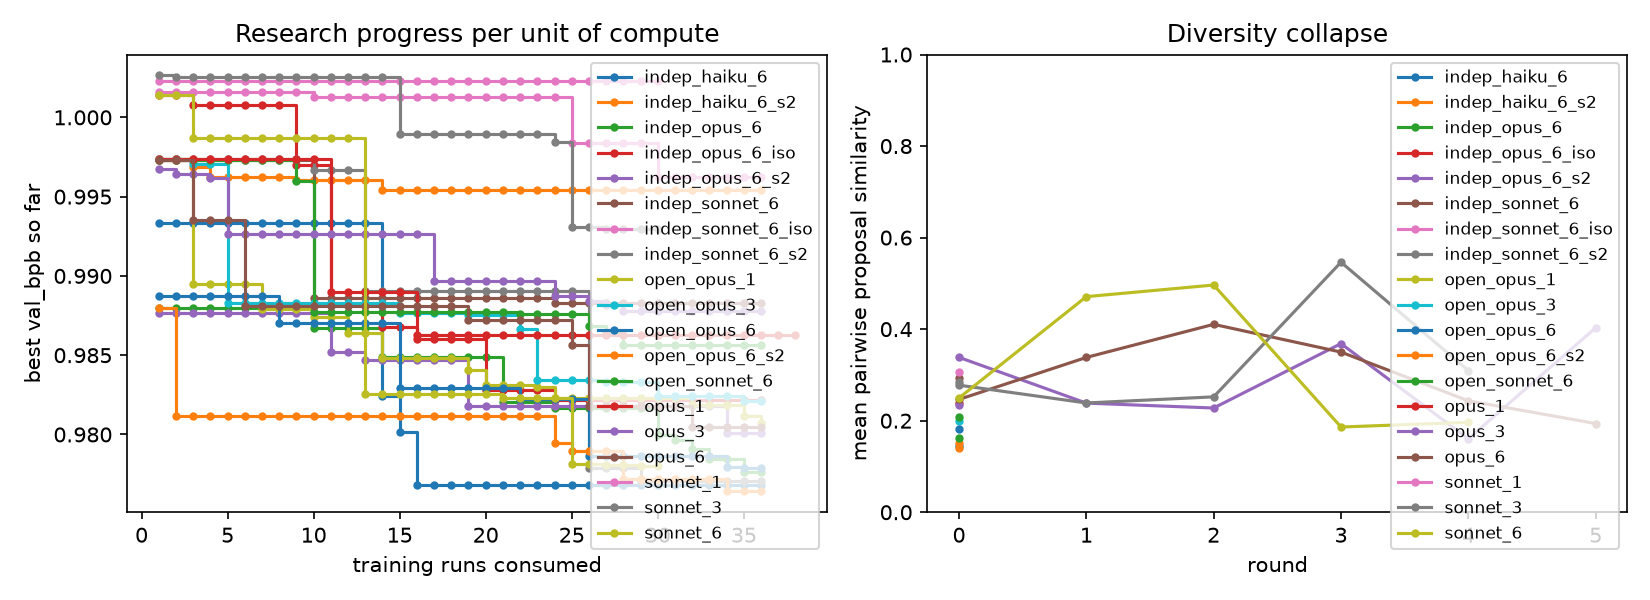
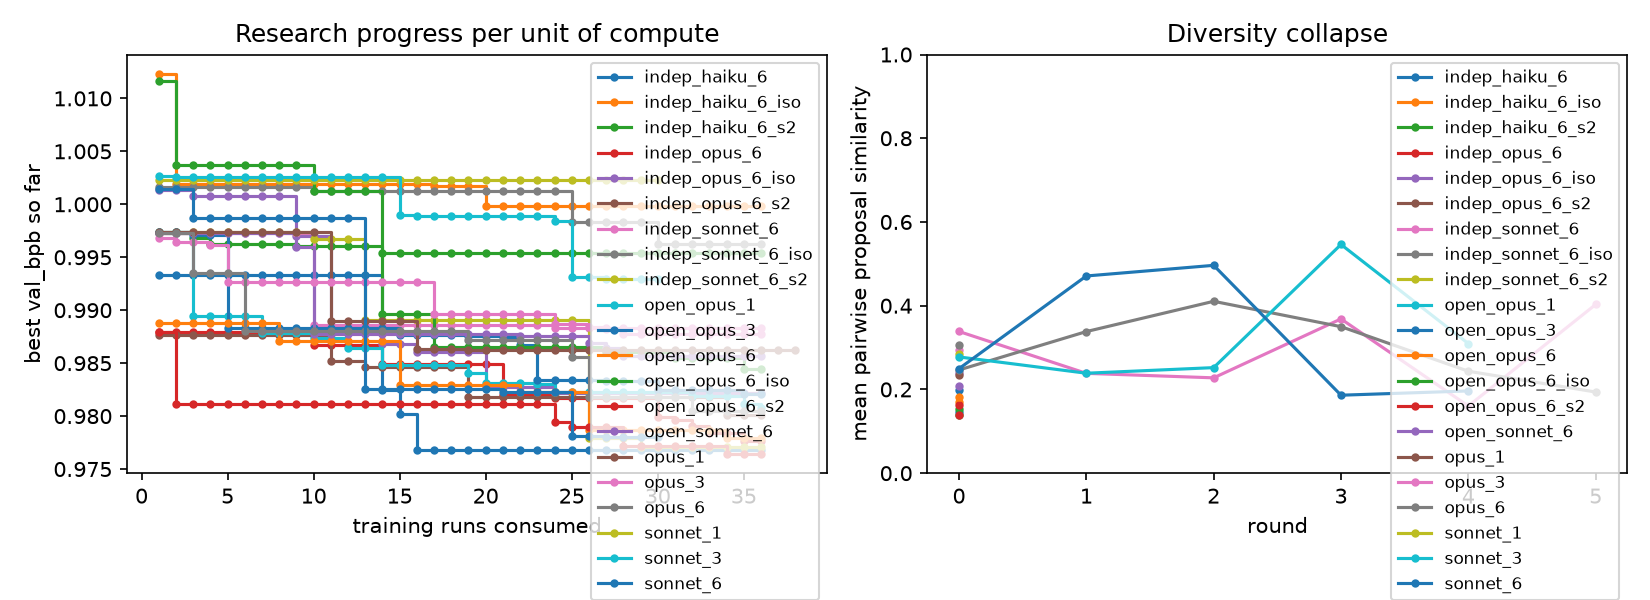
Isolated reruns complete: sharing vs true isolation within one box (no detectable effect), model ladder restored; winner diffs from archived train.py

diff --git a/analysis_out/summary.md b/analysis_out/summary.md
@@ -1,8 +1,9 @@
-# Results so far (2026-09-23 05:40)
+# Results so far (2026-09-23 11:39)
 
 **Read the correction at the top of case_studies.md first: the independent (indep_*) cells were not isolated (agents read the shared score table and peers' commits), so they do not measure the absence of communication.**
 
 - indep_haiku_6: OK — all invariants hold
+- indep_haiku_6_iso: OK — all invariants hold
 - indep_haiku_6_s2: OK — all invariants hold
 - indep_opus_6: OK — all invariants hold
 - indep_opus_6_iso: OK — all invariants hold
@@ -13,6 +14,7 @@
 - open_opus_1: OK — all invariants hold
 - open_opus_3: OK — all invariants hold
 - open_opus_6: OK — all invariants hold
+- open_opus_6_iso: OK — all invariants hold
 - open_opus_6_s2: OK — all invariants hold (1 noted deviation(s), see verify)
 - open_sonnet_6: OK — all invariants hold
 - opus_1: OK — all invariants hold (1 noted deviation(s), see verify)
@@ -26,6 +28,7 @@
 cell           agents  BoN   baseline      final      gain  runs  rounds  crash%  simil.  agent $
 -------------------------------------------------------------------------------------------------
 indep_haiku_6       6    1   0.997359   0.976806  0.020553    36       1    30.6   0.146    23.33
+indep_haiku_6_iso      6    1   1.012347   0.999826  0.012521    36       1    22.2   0.171     1.79
 indep_haiku_6_s2      6    1   0.997333   0.995414  0.001919    36       1     0.0   0.152    16.33
 indep_opus_6        6    1   0.997333   0.977649  0.019684    36       1     2.8   0.163    37.20
 indep_opus_6_iso      6    1   1.012347   0.982146  0.030201    36       1     0.0   0.240    17.11
@@ -36,6 +39,7 @@ indep_sonnet_6_s2      6    1   0.997359   0.977046  0.020313    36       1    2
 open_opus_1         1    1   0.997359   0.980742  0.016617    36       1     0.0   0.000     5.48
 open_opus_3         3    1   0.997359   0.982130  0.015229    36       1     2.8   0.199    18.99
 open_opus_6         6    1   0.997333   0.977896  0.019437    36       1     0.0   0.183    35.93
+open_opus_6_iso      6    1   1.012347   0.984417  0.027930    36       1     2.8   0.139    21.21
 open_opus_6_s2      6    1   0.997359   0.976408  0.020951    36       1     0.0   0.139    66.10
 open_sonnet_6       6    1   0.997333   0.985651  0.011682    36       1     8.3   0.207  1223.50
 opus_1              1    3   0.997359   0.986277  0.011082    36       8     2.6   0.000    69.29
@@ -51,6 +55,7 @@ sonnet_6            6    1   1.014027   0.978041  0.035986    33       5     0.0
 | cell | runs | best@29 | best@34 | best@36 | final |
 |---|---:|---:|---:|---:|---:|
 | indep_haiku_6 | 36 | 0.976806 | 0.976806 | 0.976806 | 0.976806 |
+| indep_haiku_6_iso | 36 | 0.999826 | 0.999826 | 0.999826 | 0.999826 |
 | indep_haiku_6_s2 | 36 | 0.995414 | 0.995414 | 0.995414 | 0.995414 |
 | indep_opus_6 | 36 | 0.981666 | 0.978436 | 0.977649 | 0.977649 |
 | indep_opus_6_iso | 36 | 0.982146 | 0.982146 | 0.982146 | 0.982146 |
@@ -61,6 +66,7 @@ sonnet_6            6    1   1.014027   0.978041  0.035986    33       5     0.0
 | open_opus_1 | 36 | 0.982289 | 0.981856 | 0.980742 | 0.980742 |
 | open_opus_3 | 36 | 0.983331 | 0.982424 | 0.982130 | 0.98213 |
 | open_opus_6 | 36 | 0.978654 | 0.977973 | 0.977896 | 0.977896 |
+| open_opus_6_iso | 36 | 0.986010 | 0.985510 | 0.984417 | 0.984417 |
 | open_opus_6_s2 | 36 | 0.977171 | 0.976408 | 0.976408 | 0.976408 |
 | open_sonnet_6 | 36 | 0.985651 | 0.985651 | 0.985651 | 0.985651 |
 | opus_1 | 36 | 0.986277 | 0.986277 | 0.986277 | 0.986277 |

diff --git a/analysis_out/case_studies.md b/analysis_out/case_studies.md
@@ -39,10 +39,9 @@ run-to-run noise (0.0008) is not the variability of a whole search; `open_opus_6
 seven attempts and one at five after a budget rebuild; `indep_sonnet_6_s2` executed 37 attempts and the
 37th is excluded from its record.
 
-**Fix in progress.** True isolation for the independent arm: a per-agent score table, a separate git clone
+**Fix done, reruns done (section 9b).** True isolation for the independent arm: a per-agent score table, a separate git clone
 per agent so peers' commits do not exist in its repository, a guard-hook denylist for the shared table,
-peers' logs and worktrees, and a transcript scan that fails verification on any peer read. The two Opus
-independent seeds are to be rerun under it before any communication claim is made again.
+peers' logs and worktrees, and a transcript scan that fails verification on any peer read. Reruns on Sep 23 (section 9b): no effect of sharing detected against a real no-access control; model strength is the larger lever.
 
 ---
 
@@ -276,3 +275,30 @@ Two things are already visible. Truly isolated Opus agents get a long way on the
 larger than any Monday cell's, though on a slower box where the same knobs are worth more. And the
 Sonnet gap to Opus (0.014) is of the same order as Monday's, with the Sonnet crash rate again far higher
 (7 of 36 against 0 of 36). The communication comparison waits for `open_opus_6_iso`.
+
+### 9b. All four isolated cells in (Sep 23, 07:12 finish; written 11:45)
+
+| cell (pod 4, baseline 1.0123) | runs | crashes | final | gain | isolation scan |
+|---|---:|---:|---:|---:|---|
+| `open_opus_6_iso` (sharing on) | 36 | 1 | 0.984417 | 0.0279 | not required |
+| `indep_opus_6_iso` (no access to peers) | 36 | 0 | 0.982146 | 0.0302 | clean, 6 of 6 |
+| `indep_sonnet_6_iso` | 36 | 7 | 0.996232 | 0.0161 | clean, 6 of 6 |
+| `indep_haiku_6_iso` | 36 | 8 | 0.999826 | 0.0125 | clean, 6 of 6 |
+
+**Sharing versus true isolation, one machine, one seed each.** Six Opus agents that could not see each
+other at all finished at 0.9821; six that shared everything through the directory finished at 0.9844.
+The difference, 0.0023 in favour of the isolated agents, is inside the spread measured between seeds
+of one arm on Monday (0.0015 to 0.0024), and a one-seed-per-arm design detects nothing smaller than
+about 0.006. So the statement the reviewer asked for now has its control: at 36 runs of five minutes,
+no effect of sharing was detected, in either direction. The open cell still shows the protocol working
+(adoptions, findings, disconfirmations on its log); it did not show a better number.
+
+**Model strength, now measured properly.** With real isolation the ladder is unambiguous: Opus gained
+0.030, Sonnet 0.016, Haiku 0.013, and the weak models crashed a fifth of their runs. Monday's
+"Haiku matches Opus" was copying; alone, Haiku does not find the width, batch and window changes that
+carry the Opus result. Model strength is worth about twice as much as headcount here (six Opus over
+one Opus was 0.003 to 0.006 on Monday's box), and far more than sharing.
+
+**Caveats that stay.** One seed per arm on this box; the box is slower than Monday's, so its gains are
+larger for the same changes and are compared only within it; the Monday `indep_*` cells remain
+contaminated and are kept only as the record of that.
